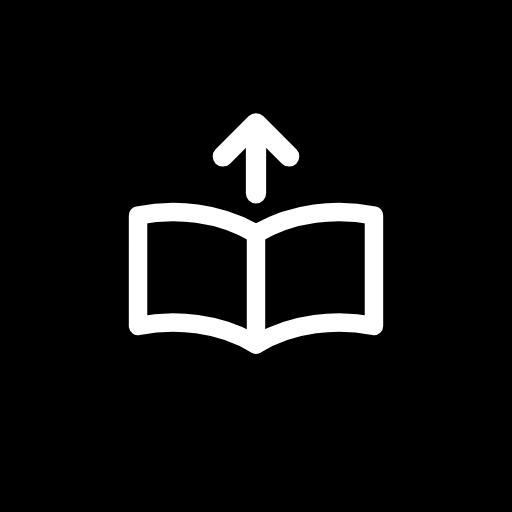
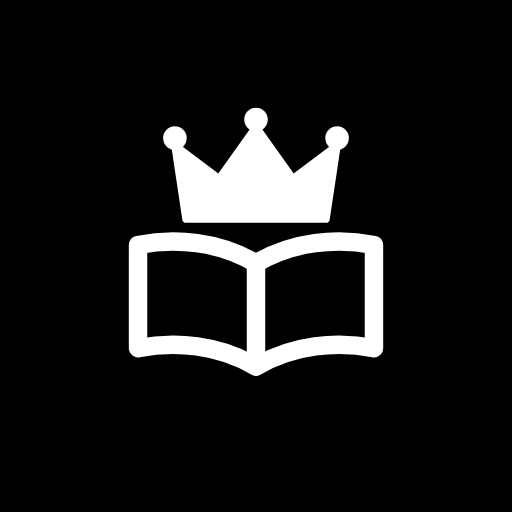
아이콘: 펼친 책 위 왕관
Claude-Session: https://claude.ai/code/session_01QDtko9qiuQ21fxgKjeQNRk

Changed region(s): [[0.25, 0.1875, 0.75, 0.5312], [0.25, 0.5938, 0.75, 0.75]]

diff --git a/sw.js b/sw.js
@@ -1,5 +1,5 @@
 /* 스터디 프로모션 서비스 워커: 앱 파일을 저장해 두고 오프라인에서도 열리게 한다 */
-const CACHE = 'studypromotion-v5';
+const CACHE = 'studypromotion-v6';
 const ASSETS = [
   './',
   './index.html',
